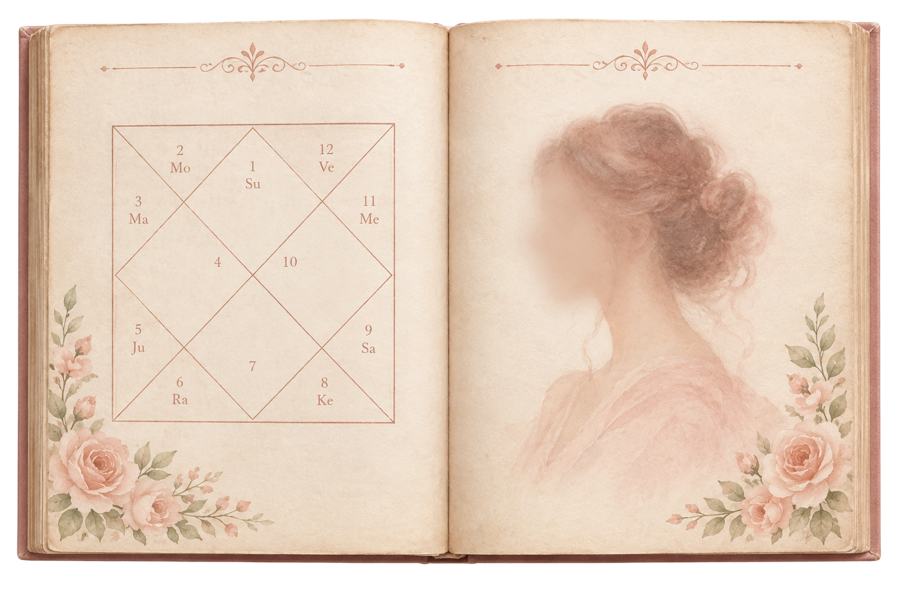
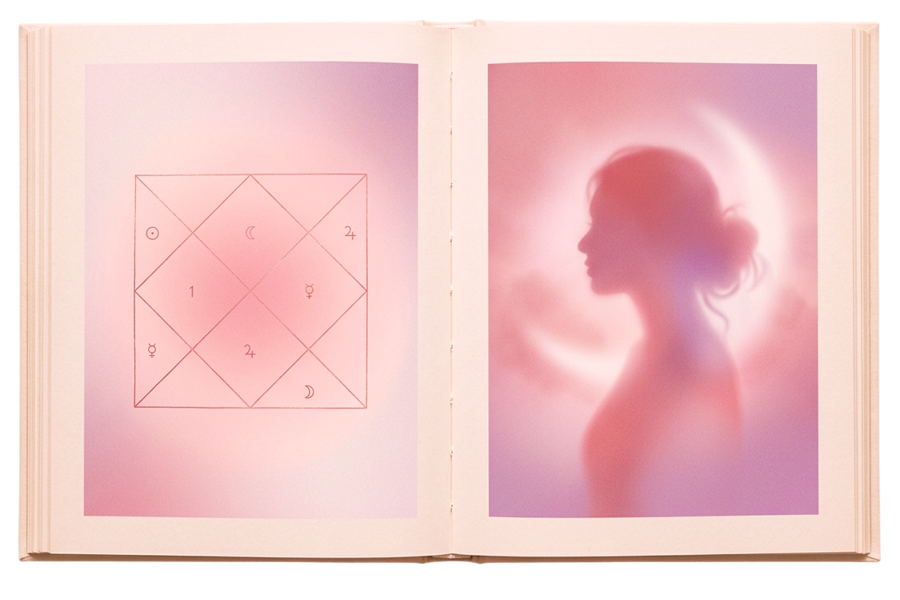
Use the Figma-rendered Partner book art
The painted cover and open spread come straight from the board now, and a
third export — the same cover as a real book in perspective — stands in
wherever the book is only being shown rather than opened: the Today guidance
tile and the chat/timeline sell card. The upsell card's tease and the report
hero still use the built book, because a flat render cannot tilt open.

The spread is re-padded to the old file's exact proportions so the hero's
hand-placed contact shadow and gutter still line up, and the cover is
edge-padded to 0.8 w/h so background-size:cover crops only its sides and
never the title.

diff --git a/app.js b/app.js
@@ -35,11 +35,21 @@ var REPORTS = [
     tl: 'Your Future Partner & Marriage Prediction',
     why: 'Learn how Rahu is blocking you from meeting him',
     cover: { a: '#F0668B', b: '#8B2F55', ink: '#FFE4EC', motif: 'heart' },
-    // All three are painted now, to the same brief: one bold motif on pale
-    // watercolour paper, and a flat spread with the chart on the left page.
-    // The open spread is Figma 3106:6812 exported straight out of the board —
-    // its own painted board edges, on transparency.
-    art: { closed: 'assets/cover-partner.jpg', open: 'assets/spread-partner.png' },
+    // Partner is the one report whose art is photographed rather than painted:
+    // Figma 3311:6840 for the cover and 3254:6840 for the open spread, exported
+    // straight out of the board. The spread keeps its own board edges on
+    // transparency, re-padded to the proportions the hero's hand-placed contact
+    // shadow and gutter were measured against. The query strings are the only
+    // thing that gets an installed home-screen app to re-fetch art that kept its
+    // filename.
+    // `solid` is the same cover rendered as a real book in perspective
+    // (Figma 3318:6840). It replaces the CSS board wherever the book is inert;
+    // the three places it has to move keep the built one.
+    art: {
+      closed: 'assets/cover-partner.jpg?v=3',
+      open: 'assets/spread-partner.png?v=3',
+      solid: 'assets/book3d-partner.png?v=1'
+    },
     // What is in the box, as chips — the one thing unique to this report first.
     chips: ['Partner image', 'Birth chart analysis'],
     // Quotes that name something the report called before it happened. A quote
@@ -1056,7 +1066,10 @@ function book3d(r) {
   // Where the painted cover and its spread exist, show those instead: the art
   // is the argument, and a drawing of a book cannot make it.
   if (r.art) {
-    return '<span class="bkt" aria-hidden="true">' +
+    return '<span class="bkt' + (r.art.solid ? ' has3d' : '') + '" aria-hidden="true">' +
+      // The rendered book, painted over the built one. CSS decides which of the
+      // two is showing, because that depends on whether this copy has to move.
+      (r.art.solid ? '<span class="bkt-3d" style="background-image:url(' + r.art.solid + ')"></span>' : '') +
       '<span class="bkt-in">' +
         // The right-hand page of the spread, sitting under the cover.
         '<span class="bkt-leaf" style="background-image:url(' + r.art.open + ')"></span>' +

diff --git a/index.html b/index.html
@@ -18,7 +18,7 @@
      The manifest deliberately carries NO theme_color: that key, not the
      manifest itself, is what makes iOS 16.4+ paint its own opaque status bar
      and ignore black-translucent. -->
-<link rel="manifest" href="manifest.webmanifest?v=202610222320">
+<link rel="manifest" href="manifest.webmanifest?v=202610222346">
 <!-- PNG, not SVG. iOS ignores an SVG apple-touch-icon and SVG manifest icons
      outright, and an un-iconable manifest is one iOS can decline — dropping the
      app back onto the legacy apple-* path, which is the path that hands it a
@@ -30,8 +30,8 @@
 <link rel="preconnect" href="https://fonts.googleapis.com">
 <link rel="preconnect" href="https://fonts.gstatic.com" crossorigin>
 <link rel="stylesheet" href="https://fonts.googleapis.com/css2?family=Inter:wght@400;500;600;700&family=Cormorant+Infant:wght@600;700&family=Noto+Sans+Devanagari:wght@400;500;600;700&display=swap">
-<link rel="stylesheet" href="styles.css?v=202610222320">
-<link rel="stylesheet" href="mobile.css?v=202610222320">
+<link rel="stylesheet" href="styles.css?v=202610222346">
+<link rel="stylesheet" href="mobile.css?v=202610222346">
 </head>
 <body>
 
@@ -265,7 +265,7 @@
             <!-- Versioned like the stylesheets. The file keeps its name when the
                  clip is recut, so without this an installed home-screen app goes
                  on playing whichever take it cached the day it was added. -->
-            <source src="assets/r2-hero.mp4?v=202610222320" type="video/mp4">
+            <source src="assets/r2-hero.mp4?v=202610222346" type="video/mp4">
           </video>
           <!-- The painted cover, standing closed. The open-book drawing is gone:
                it was a stock illustration of a book, not this report. -->
@@ -851,8 +851,8 @@
 </div><!-- /.phone -->
 </main>
 
-<script src="data.js?v=202610222320"></script>
-<script src="app.js?v=202610222320"></script>
-<script src="mobile.js?v=202610222320"></script>
+<script src="data.js?v=202610222346"></script>
+<script src="app.js?v=202610222346"></script>
+<script src="mobile.js?v=202610222346"></script>
 </body>
 </html>

diff --git a/styles.css b/styles.css
@@ -489,6 +489,26 @@ hr.thin{border:0;border-top:1px solid var(--g200);margin:12px 0}
   background:linear-gradient(90deg,rgba(74,24,8,.22) 0,rgba(74,24,8,0) 100%)}
 .bk3-art{position:absolute;inset:0;width:100%;height:100%;opacity:.74}
 .bkt-leaf,.bkt-back,.bk3-leaf,.bk3-spine{display:none}
+/* ---- the rendered book ----
+   Partner's cover comes out of Figma a second time as a real book in
+   perspective, with its own spine, board thickness and page edges. Wherever the
+   book is only being shown — the chat card's thumb, the same card on the
+   Timeline, the Today guidance tile — that render beats anything the board +
+   ::after page block can draw, so it covers them both. `contain`, not `cover`:
+   the render carries its own transparent margin and cropping it would cut the
+   boards off. */
+.bkt-3d{position:absolute;inset:0;z-index:3;pointer-events:none;
+  background:center/contain no-repeat}
+.bkt.has3d::after{content:none}
+.bkt.has3d .bkt-in{display:none}
+/* The two places the book has to MOVE keep the built one, because a flat
+   picture cannot tilt open: the upsell card's tease, and the report hero that
+   swings the full 180. */
+:is(.pcard,.r2-bookwrap) .bkt.has3d .bkt-3d{display:none}
+:is(.pcard,.r2-bookwrap) .bkt.has3d .bkt-in{display:block}
+/* The hero suppresses the page block on its own account, so it is restored
+   only on the card. */
+.pcard .bkt.has3d::after{content:''}
 /* The upsells are the same object at thumbnail size. */
 .pcard .bkt,.pcard .bk3{width:64px;height:87px;margin-bottom:10px}
 /* And they tease: the board lifts off its spine far enough to show paper, holds
